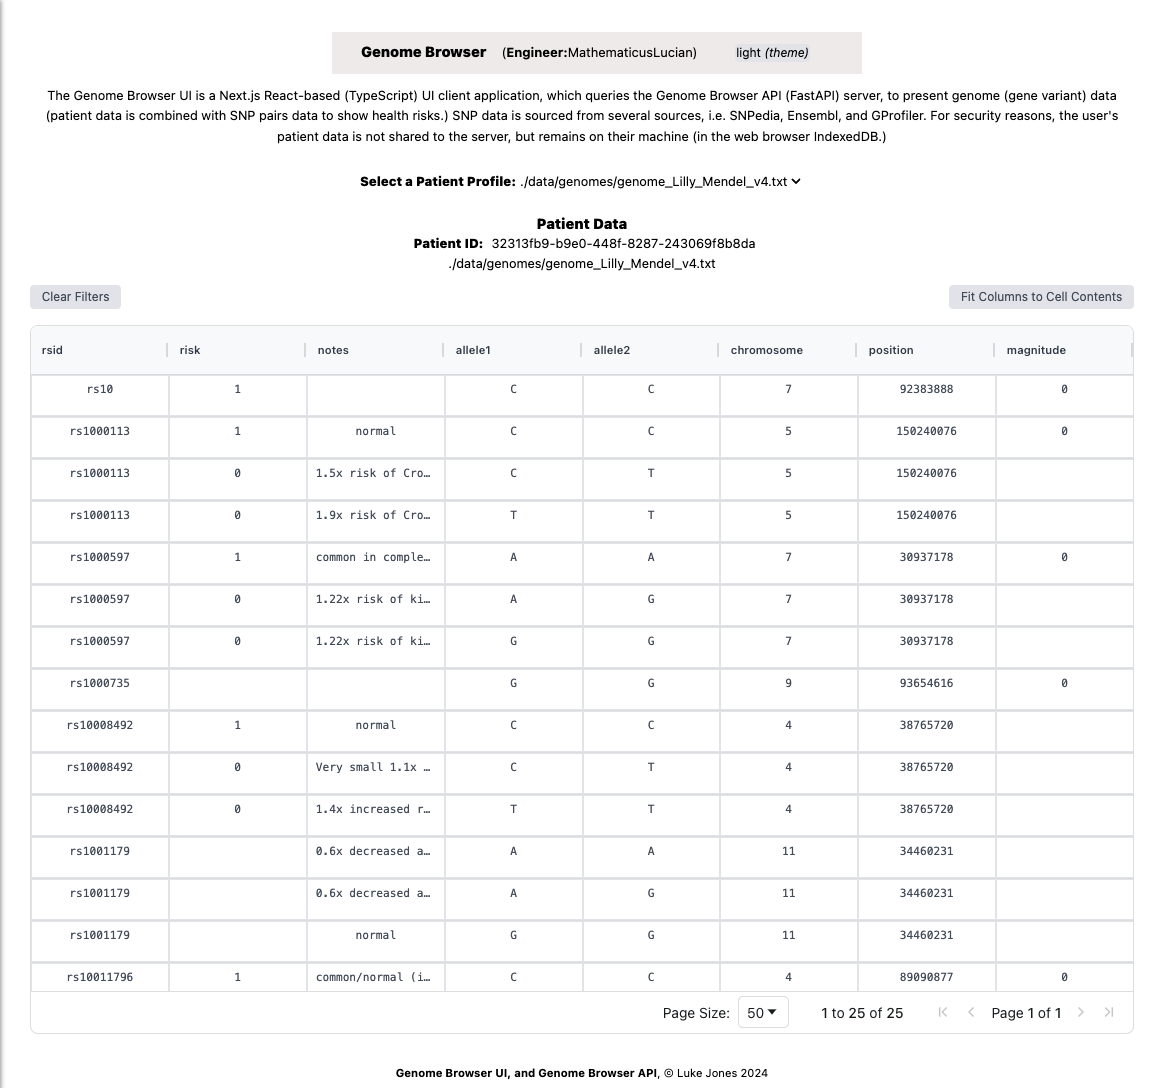
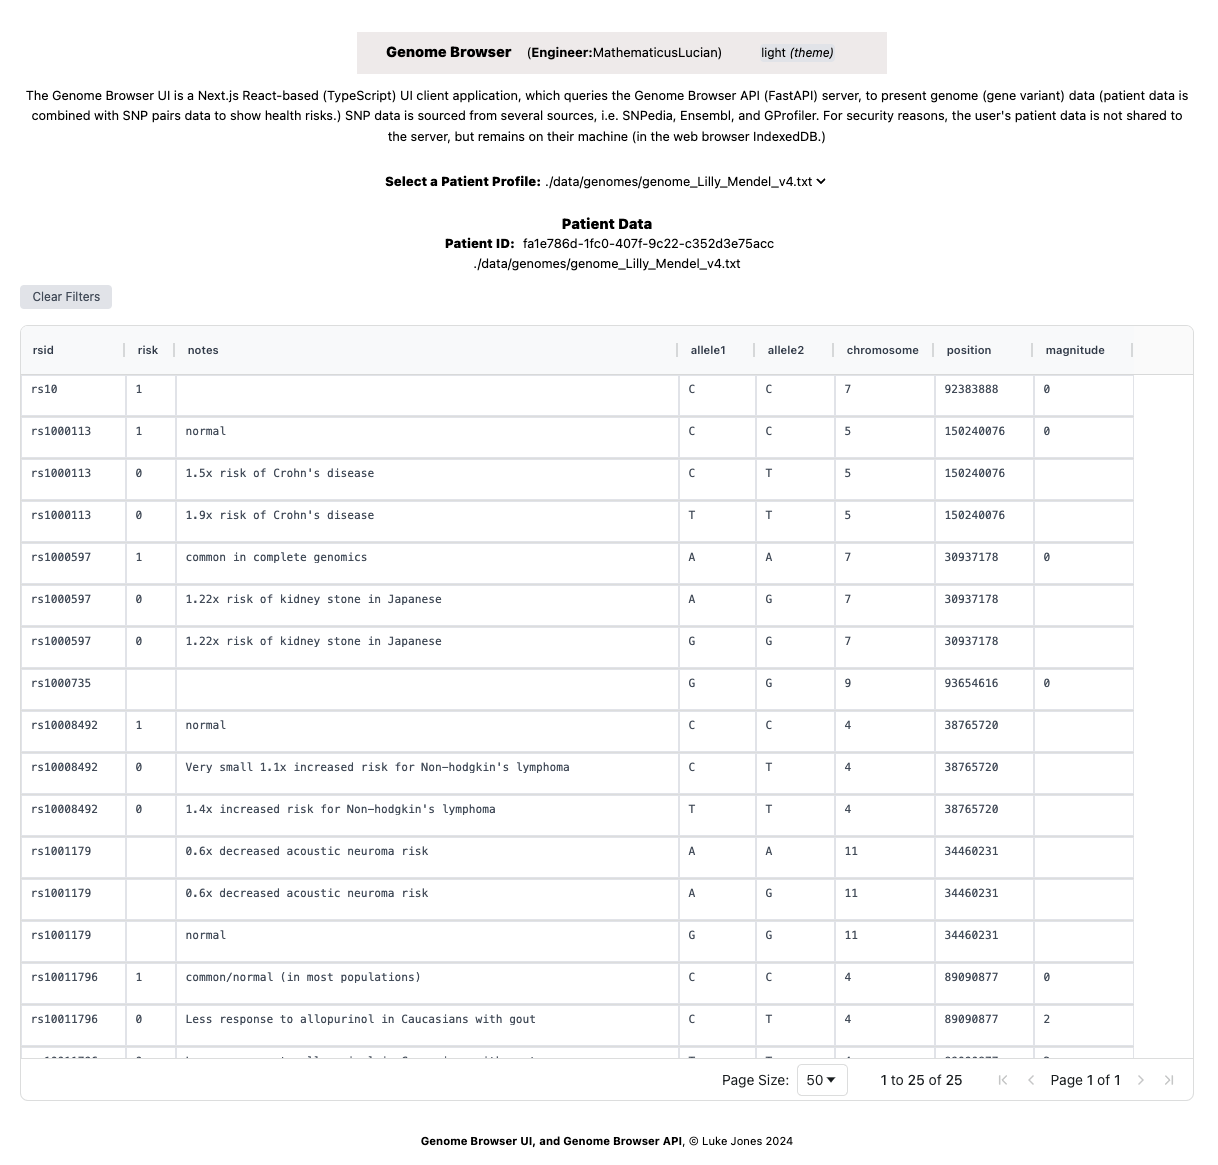
Tidied spacing of TableGrid columns for Patient Full Report

diff --git a/components/TableGrid.tsx b/components/TableGrid.tsx
@@ -3,6 +3,8 @@ import React, { useState, useEffect, useMemo, useCallback, useRef } from "react"
 import { flushSync } from 'react-dom';
 import { AgGridReact } from "ag-grid-react";
 import * as agGrid from "ag-grid-community";  
+import { useContainerWidth } from "../utils/useContainerWidth";
+import { useWindowSize } from "../utils/useWindowSize";
 
 agGrid.ModuleRegistry.registerModules([agGrid.AllCommunityModule, agGrid.ValidationModule]);
 
@@ -29,11 +31,18 @@ interface TableGridProps {
 const TableGrid: React.FC<TableGridProps> = ({ rowData, columnDefs, error, onSelectedDataRowChange }) => {
   const gridRef = useRef<AgGridReact<any>>(null);
   const [gridApi, setGridApi] = useState<agGrid.GridApi | null>(null);
+  const debounce = 0;
+  const [windowWidth] = useWindowSize(debounce);
+  const {width: containerWidth, ref} = useContainerWidth(debounce);
   
   const defaultColDef: agGrid.ColDef = {
     flex: 1,
-    minWidth: 100,
-    resizable: true,
+    minWidth: 50, 
+    resizable: true, // Enable resizing
+    wrapText: true, // Wrap Text
+    wrapHeaderText: true,
+    autoHeight: true, // Adjust Cell Height to Fit Wrapped Text
+    autoHeaderHeight: true,
   };
 
   const onGridReady = (params: agGrid.GridReadyEvent) => {
@@ -42,21 +51,12 @@ const TableGrid: React.FC<TableGridProps> = ({ rowData, columnDefs, error, onSel
       if (type === "rowClicked" || type === "rowSelected") {
         onSelectedDataRowChange(e.data);
       }
-    }); 
-  };  
-  useEffect(() => {
-    if (gridApi) {
-      const allColumnIds: string[] = []; 
-      gridApi.getColumns()!.forEach((column) => {
-        allColumnIds.push(column.getId());
-      });
-      gridApi.autoSizeColumns(allColumnIds, false);
-    }
-  }, [gridApi]);
+    });  
+  };    
   
-  // const onPaginationChanged = () => {
-  //   // console.log("onPaginationChanged");
-  // };
+  const onPaginationChanged = () => {
+    // console.log("onPaginationChanged");
+  };
 
   const clearFilters = () => {
     if (gridApi) {
@@ -74,6 +74,17 @@ const TableGrid: React.FC<TableGridProps> = ({ rowData, columnDefs, error, onSel
     };
   }, []);
 
+  useEffect(() => {
+    if (gridApi) {
+      // gridApi.sizeColumnsToFit();
+      let columnIds = [];
+      gridApi.getColumns().forEach(column => {
+        columnIds.push(column.getColDef());
+      });
+      gridApi.autoSizeColumns(columnIds);
+    }
+  }, [windowWidth, containerWidth, gridApi]);
+
   return (
     <div className="ag-theme-alpine grid-container">
       <div className="flex justify-between align-middle mb-4 text-lg text-[#4b5563]">
@@ -90,11 +101,11 @@ const TableGrid: React.FC<TableGridProps> = ({ rowData, columnDefs, error, onSel
         columnDefs={columnDefs}
         rowData={rowData}
         rowSelection={'single'}
-        defaultColDef={defaultColDef}
+        defaultColDef={defaultColDef} 
         onGridReady={onGridReady}
         pagination={true}
         paginationPageSize={50}
-        // onPaginationChanged={onPaginationChanged}
+        onPaginationChanged={onPaginationChanged}
         autoSizeStrategy={autoSizeStrategy}
         enableCellTextSelection={true}
         ensureDomOrder={true}

diff --git a/pages/patient/report/[[...patient_id]].tsx b/pages/patient/report/[[...patient_id]].tsx
@@ -55,14 +55,14 @@ const GenericPage: React.FC<any> = (props) => {
     useEffect(() => {
         fetchPatientProfiles();
         const columns = [
-            {"headerName":"rsid","field":"rsid"},
-            {"headerName":"risk","field":"risk"},
-            {"headerName":"notes","field":"notes"},
-            {"headerName":"allele1","field":"allele1"},
-            {"headerName":"allele2","field":"allele2"},
-            {"headerName":"chromosome","field":"chromosome"},
-            {"headerName":"position","field":"position"},
-            {"headerName":"magnitude","field":"magnitude"},
+            {"headerName":"rsid","field":"rsid", flex: 2, maxWidth: 120},
+            {"headerName":"risk","field":"risk", flex: 1, maxWidth: 50},
+            {"headerName":"notes","field":"notes", flex: 4, minWidth: 200, maxWidth: 650, suppressSizeToFit: false},
+            {"headerName":"allele1","field":"allele1", flex: 1, maxWidth: 100},
+            {"headerName":"allele2","field":"allele2", flex: 1, maxWidth: 100},
+            {"headerName":"chromosome","field":"chromosome", flex: 1, maxWidth: 100},
+            {"headerName":"position","field":"position", flex: 2, maxWidth: 120},
+            {"headerName":"magnitude","field":"magnitude", flex: 1, maxWidth: 100},
             // The following are not displayed:
             // {"headerName":"patient_id","field":"patient_id"},
             // {"headerName":"patient_name","field":"patient_name"},

diff --git a/utils/useWindowSize.ts b/utils/useWindowSize.ts
@@ -1,0 +1,16 @@
+import { useLayoutEffect, useState } from "react";
+import { useDebounce } from "./useDebounce";
+
+export function useWindowSize(debounce = 150) {
+  const [size, setSize] = useState([0, 0]);
+  const debounceSize = useDebounce(size, debounce);
+  useLayoutEffect(() => {
+    function updateSize() {
+      setSize([window.innerWidth, window.innerHeight]);
+    }
+    window.addEventListener("resize", updateSize);
+    updateSize();
+    return () => window.removeEventListener("resize", updateSize);
+  }, []);
+  return debounceSize;
+}

diff --git a/utils/useDebounce.ts b/utils/useDebounce.ts
@@ -1,0 +1,17 @@
+import { useEffect, useState } from "react";
+
+export function useDebounce<T>(value: T, delay = 150) {
+  const [debouncedValue, setDebouncedValue] = useState<T>(value);
+
+  useEffect(() => {
+    const handler = setTimeout(() => {
+      setDebouncedValue(value);
+    }, delay);
+
+    return () => {
+      clearTimeout(handler);
+    };
+  }, [value, delay]);
+
+  return debouncedValue;
+}

diff --git a/utils/useContainerWidth.ts b/utils/useContainerWidth.ts
@@ -1,0 +1,10 @@
+import { useState } from "react";
+import {useDebounce} from './useDebounce';
+
+export function useContainerWidth(debounce = 100){
+  const [size, setSize] = useState<number | undefined>();
+  const ref = (element: HTMLDivElement) =>
+    element && setSize(element.getBoundingClientRect().width);
+  const debounceResize = useDebounce(size, debounce);
+  return {width:debounceResize, ref};
+}
